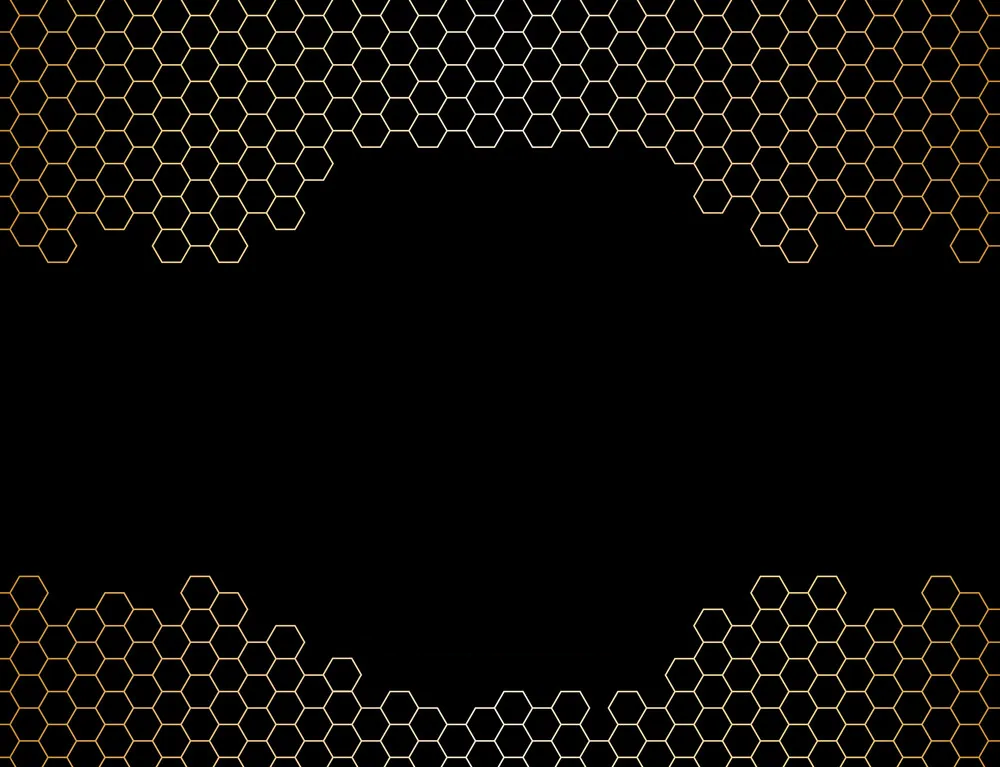
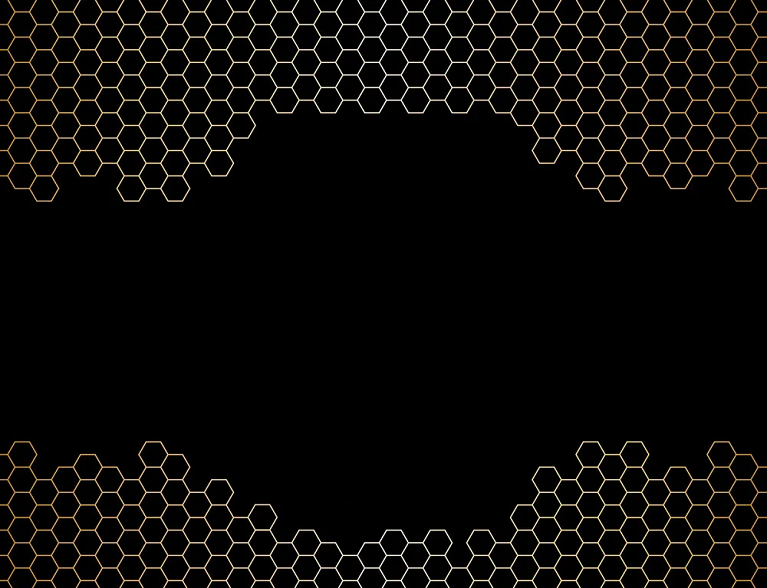
1st

diff --git a/src/main/resources/templates/listCategoria.html b/src/main/resources/templates/listCategoria.html
@@ -65,26 +65,25 @@
                 </button>
                 <div class="collapse navbar-collapse" id="navbarSupportedContent">
                     <ul class="nav navbar-nav ml-auto">
-                           <span class="navbar-text">
+                        <span class="navbar-text">
+                            <ul class="navbar-nav me-auto">
+                              <li class="nav-item">
+                                <a class="nav-link" href="#page-home">
+                                    <img th:src="@{/img/logo2.png}" class="logo">
+                                </a>
+                              </li>
+                           </ul>
+                        </span>
+                    </ul>
+                    <span class="navbar-text">
                                <ul class="navbar-nav me-auto">
                               <li class="nav-item justify-content-end">
                                 <a class="nav-link" href="/admin/cerrar">Cerrar Sesion</a>
                               </li>
                                </ul>
                         </span>
-                    </ul>
                 </div>
-                <span class="navbar-text">
 
-                   <ul class="navbar-nav me-auto">
-                      <li class="nav-item justify-content-end">
-                        <a class="nav-link" href="#page-home">
-                            <img th:src="@{/img/logo2.png}" class="logo">
-                        </a>
-                      </li>
-                   </ul>
-
-            </span>
             </div>
         </nav>
         <div class="row">

diff --git a/src/main/resources/templates/index.html b/src/main/resources/templates/index.html
@@ -18,7 +18,7 @@
 <!--        <button class="navbar-toggler" type="button" data-bs-toggle="collapse" data-bs-target="#mynavbar">-->
 <!--            <span class="navbar-toggler-icon"></span>-->
 <!--        </button>-->
-        <span class="navbar-text">
+    <span class="navbar-text">
 
            <ul class="navbar-nav me-auto">
               <li class="nav-item justify-content-start">
@@ -29,10 +29,11 @@
            </ul>
 
         </span>
-
     <div class="collapse navbar-collapse" id="navbarSupportedContent">
+            <ul class="navbar-nav me-auto"></ul>
+            <span class="navbar-text">
             <ul class="navbar-nav me-auto">
-                <li class="nav-item justify-content-end">
+                <li class="nav-item">
                     <a class="nav-link-home" href="/">BIENVENIDOS</a>
                 </li>
                 <li class="nav-item">
@@ -42,9 +43,10 @@
                     <a class="nav-link" href="/carrito">TIENDA</a>
                 </li>
             </ul>
-        </div>
+            </span>
     </div>
-</nav>
+    </div>
+</nav>c
 <section>
     <div class="container-main"></div>
     <div class="row"  style="font-size: 45px">Si desea ir más allá de la comparación de las métricas de

diff --git a/src/main/resources/templates/tienda.html b/src/main/resources/templates/tienda.html
@@ -28,7 +28,9 @@
            </ul>
 
         </span>
-        <div class="collapse navbar-collapse" id="mynavbar">
+        <div class="collapse navbar-collapse" id="navbarSupportedContent">
+            <ul class="navbar-nav me-auto"></ul>
+            <span class="navbar-text">
             <ul class="navbar-nav me-auto">
                 <li class="nav-item">
                     <a class="nav-link" href="/">BIENVENIDOS</a>
@@ -40,6 +42,8 @@
                     <a class="nav-link-tienda" href="/carrito">TIENDA</a>
                 </li>
             </ul>
+            </span>
+        </div>
         </div>
     </div>
 </nav>

diff --git a/src/main/resources/static/css/loginregister3.css b/src/main/resources/static/css/loginregister3.css
@@ -16,6 +16,7 @@ body{
 nav{
     background-color:black;
     transition:0.6s;
+    padding-right: 2%;
 }
 nav.sticky{
     padding: 5px 100px;
@@ -24,13 +25,13 @@ nav.sticky{
 ul.navbar-nav{
     margin:auto;
 }
-a.nav-link-home {
+.navbar-text a.nav-link-home {
     display: block;
     padding: 0.5rem 1rem;
     color: orange;
     text-decoration: none;
 }
-a.nav-link-tienda {
+.navbar-text a.nav-link-tienda {
     display: block;
     padding: 0.5rem 1rem;
     color: orange;
@@ -44,5 +45,5 @@ a.nav-link-tienda {
 
 .logo {
     width: 100%;
-    height: 50px;
+    height: 60px;
 }

diff --git a/src/main/resources/static/css/loginregister.css b/src/main/resources/static/css/loginregister.css
@@ -8,8 +8,7 @@ body{
     /*width:100%;*/
     /*height: 500px;*/
     background: url("../img/banner.png") no-repeat;
-    background-size: cover;
-    background-attachment: fixed;
+    background-size:  100% 130%;
 }
 
 .login-form-1{
@@ -20,13 +19,12 @@ body{
     width:450px;
     height:460px;
     margin:auto;
-    margin-top:4%;
+
     border-radius:20px;
 }
 .login-container{
 
-    margin: auto;
-    margin-top:20%;
+    margin-top:15%;
 }
 .login-form-1 h3{
     margin-bottom:10%;

diff --git a/src/main/resources/static/css/loginregister2.css b/src/main/resources/static/css/loginregister2.css
@@ -37,7 +37,7 @@ a{
 .mx-auto {
     margin-left: auto !important; }
 .btn.btn-primary {
-    margin-top: 2%;
+
     background: #f8b739;
     border-color: #f8b739;
     color: #fff;
